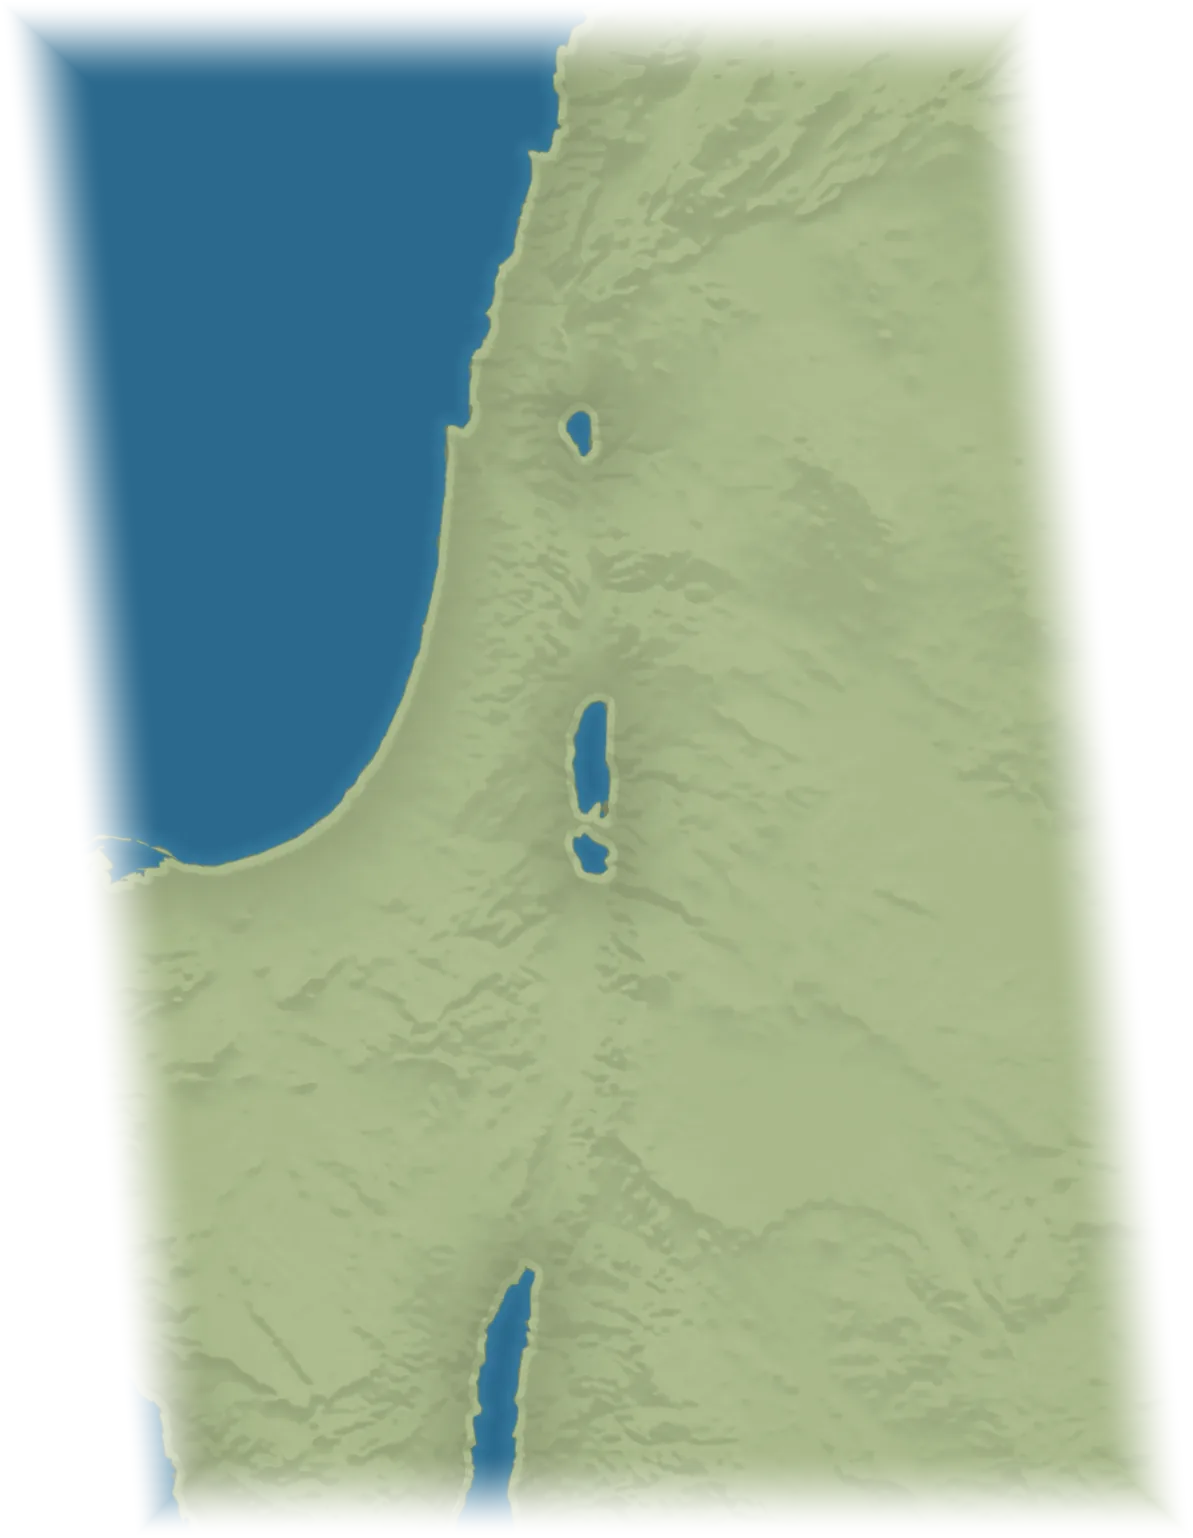
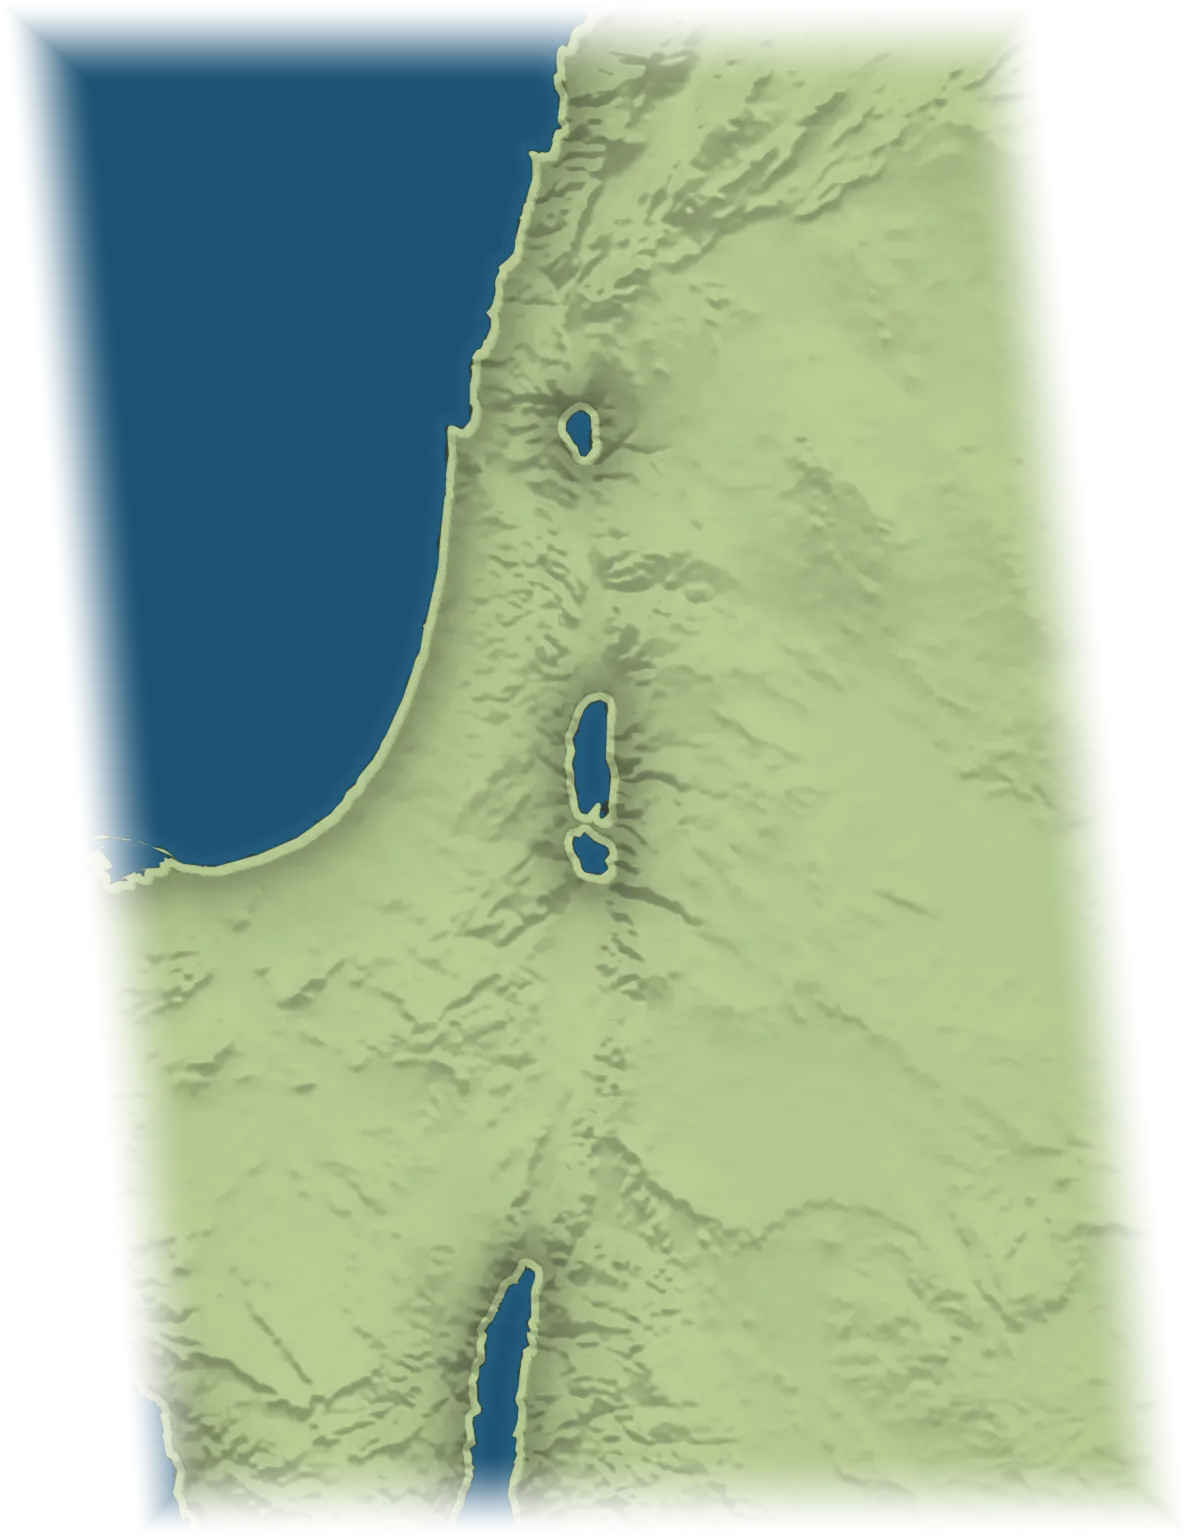
M1 Satellite E: real-mask post-step with dark-value cap, rivers #1E5174; flat remap stopgap updated to E
Claude-Session: https://claude.ai/code/session_01XnSa8CSopsy8GydYXhqea4

Changed region(s): [[0.062, 0.0312, 0.5272, 0.5618], [0.3722, 0.8114, 0.4962, 0.9675], [0.4342, 0.4369, 0.5583, 0.593]]

diff --git a/archaeology.html b/archaeology.html
@@ -68,7 +68,7 @@ a.pill{display:inline-flex;align-items:center;text-decoration:none}
 .routeBody.contested{fill-opacity:1;stroke:#2A2F33;stroke-width:2;stroke-dasharray:6 4}
 .routeTrad{fill:#B9AE9A;stroke:#3F463F;stroke-width:1.8;stroke-dasharray:6 4;stroke-linejoin:round}
 .coast{fill:none;stroke:#3B3326;stroke-opacity:.38;stroke-width:.9;stroke-linejoin:round;pointer-events:none}
-.river{fill:none;stroke:#2B6A8E;stroke-opacity:.85;stroke-width:1.6;stroke-linecap:round;stroke-linejoin:round;pointer-events:none}
+.river{fill:none;stroke:#1E5174;stroke-opacity:.85;stroke-width:1.6;stroke-linecap:round;stroke-linejoin:round;pointer-events:none}
 .regionName{font-family:var(--sans);font-size:11px;font-weight:600;letter-spacing:2.4px;fill:#4E4231;fill-opacity:.85;pointer-events:none}
 .seaName{font-family:Georgia,'Times New Roman',serif;font-style:italic;font-size:15px;letter-spacing:1.2px;fill:#E4EEF0;fill-opacity:.9;pointer-events:none}
 .route.selected .routeBody{stroke:#fff;stroke-width:3}

diff --git a/events.html b/events.html
@@ -63,7 +63,7 @@ a.pill{display:inline-flex;align-items:center;text-decoration:none}
 .routeBody.contested{fill-opacity:1;stroke:#2A2F33;stroke-width:2;stroke-dasharray:6 4}
 .routeTrad{fill:#B9AE9A;stroke:#3F463F;stroke-width:1.8;stroke-dasharray:6 4;stroke-linejoin:round}
 .coast{fill:none;stroke:#3B3326;stroke-opacity:.38;stroke-width:.9;stroke-linejoin:round;pointer-events:none}
-.river{fill:none;stroke:#2B6A8E;stroke-opacity:.85;stroke-width:1.6;stroke-linecap:round;stroke-linejoin:round;pointer-events:none}
+.river{fill:none;stroke:#1E5174;stroke-opacity:.85;stroke-width:1.6;stroke-linecap:round;stroke-linejoin:round;pointer-events:none}
 .regionName{font-family:var(--sans);font-size:11px;font-weight:600;letter-spacing:2.4px;fill:#4E4231;fill-opacity:.85;pointer-events:none}
 .seaName{font-family:Georgia,'Times New Roman',serif;font-style:italic;font-size:15px;letter-spacing:1.2px;fill:#E4EEF0;fill-opacity:.9;pointer-events:none}
 .route.selected .routeBody{stroke:#fff;stroke-width:3}

diff --git a/index.html b/index.html
@@ -63,7 +63,7 @@ a.pill{display:inline-flex;align-items:center;text-decoration:none}
 .routeBody.contested{fill-opacity:1;stroke:#2A2F33;stroke-width:2;stroke-dasharray:6 4}
 .routeTrad{fill:#B9AE9A;stroke:#3F463F;stroke-width:1.8;stroke-dasharray:6 4;stroke-linejoin:round}
 .coast{fill:none;stroke:#3B3326;stroke-opacity:.38;stroke-width:.9;stroke-linejoin:round;pointer-events:none}
-.river{fill:none;stroke:#2B6A8E;stroke-opacity:.85;stroke-width:1.6;stroke-linecap:round;stroke-linejoin:round;pointer-events:none}
+.river{fill:none;stroke:#1E5174;stroke-opacity:.85;stroke-width:1.6;stroke-linecap:round;stroke-linejoin:round;pointer-events:none}
 .regionName{font-family:var(--sans);font-size:11px;font-weight:600;letter-spacing:2.4px;fill:#4E4231;fill-opacity:.85;pointer-events:none}
 .seaName{font-family:Georgia,'Times New Roman',serif;font-style:italic;font-size:15px;letter-spacing:1.2px;fill:#E4EEF0;fill-opacity:.9;pointer-events:none}
 .route.selected .routeBody{stroke:#fff;stroke-width:3}

diff --git a/movements.html b/movements.html
@@ -67,7 +67,7 @@ a.pill{display:inline-flex;align-items:center;text-decoration:none}
 .routeBody.contested{fill-opacity:1;stroke:#2A2F33;stroke-width:2;stroke-dasharray:6 4}
 .routeTrad{fill:#B9AE9A;stroke:#3F463F;stroke-width:1.8;stroke-dasharray:6 4;stroke-linejoin:round}
 .coast{fill:none;stroke:#3B3326;stroke-opacity:.38;stroke-width:.9;stroke-linejoin:round;pointer-events:none}
-.river{fill:none;stroke:#2B6A8E;stroke-opacity:.85;stroke-width:1.6;stroke-linecap:round;stroke-linejoin:round;pointer-events:none}
+.river{fill:none;stroke:#1E5174;stroke-opacity:.85;stroke-width:1.6;stroke-linecap:round;stroke-linejoin:round;pointer-events:none}
 .regionName{font-family:var(--sans);font-size:11px;font-weight:600;letter-spacing:2.4px;fill:#4E4231;fill-opacity:.85;pointer-events:none}
 .seaName{font-family:Georgia,'Times New Roman',serif;font-style:italic;font-size:15px;letter-spacing:1.2px;fill:#E4EEF0;fill-opacity:.9;pointer-events:none}
 .route.selected .routeBody{stroke:#fff;stroke-width:3}

diff --git a/tools/build-map.py b/tools/build-map.py
@@ -248,7 +248,22 @@ def cmd_build(a):
 # Recipe: Creative Design, claude/design-m1-satellite-recipe.py, variant "satm". Output goes to images/m1/ so the aged pictures stay untouched.
 M1_LAND = np.array([0xA8, 0xB8, 0x8A], np.float32); M1_SEA = np.array([0x2B, 0x6A, 0x8E], np.float32)
 M1_WARM = np.array([196, 190, 142], np.float32); M1_SHALLOW = np.array([70, 140, 172], np.float32)
-M1 = dict(strength=1.15, floor=1.0, warm=0.35, shallow=0.45, knee=0.95, slope=0.4)   # relief 115 pct; warm tint up to 35 pct on the brightest relief; shallow band 45 pct; shadows below the knee keep 40 pct of their depth
+M1 = dict(strength=1.15, floor=1.0, warm=0.35, shallow=0.45, knee=0.0, slope=1.0)   # Satellite as first drawn: relief 115 pct; warm tint up to 35 pct on the brightest relief; shallow band 45 pct; FULL shadows (no knee)
+# Satellite E post-step (Jeffrey 3 Nov 21:00, claude/design-m1-satellite-e-recipe.py): sea x0.70/0.78/0.82, land lifted 6 pct and relief widened 45 pct about the median, colour 12 pct stronger.
+E = dict(sea=np.array([0.70, 0.78, 0.82], np.float32), lift=1.06, widen=1.45, chroma=1.12, med=np.array([168, 184, 138], np.float32), floor=46.0)   # floor: darkest land brightness after widening (cap against black specks)
+
+
+def apply_E(img, cov):
+    """img = finished Satellite picture; cov = real Natural Earth land coverage 0..1 (1 land). Returns the E picture."""
+    m = (1 - np.clip(cov, 0, 1))[..., None]
+    land = E['med'] * E['lift'] + (img - E['med']) * E['widen']
+    g = land.mean(axis=-1, keepdims=True)
+    # soft cap on the darkest values: below the floor, brightness is compressed instead of reaching black (no isolated black pixels on Tibet, Arctic islands, Antarctica)
+    f2 = E['floor'] * 2; g2 = np.where(g < f2, f2 - (f2 - g) * 0.5, g)   # below 2 x floor the shadow depth is halved: darkest land ends at the floor, never black
+    land = land + (g2 - g)   # additive, so a pure black pixel is lifted too
+    g = land.mean(axis=-1, keepdims=True); land = np.clip(g + (land - g) * E['chroma'], 0, 255)
+    sea = img * E['sea']
+    return np.clip(sea * m + land * (1 - m), 0, 255)
 
 
 def m1_land_rgb(f):
@@ -273,6 +288,7 @@ def cmd_build_m1(a):
         else: d = cv2.distanceTransform(1 - l8, cv2.DIST_L2, 5)
         w = np.clip(1 - d / 16, 0, 1)[..., None] * M1['shallow'] * (1 - np.clip(cov, 0, 1)[..., None])
         out = np.clip(out * (1 - w) + M1_SHALLOW * w, 0, 255)
+        out = apply_E(out, cov)
         write_jpg(f"{a.out}/images/m1/tex-{tex['name']}.jpg", out, 92)
         print('m1', tex['name'], 'land factor P1, P5, P50 =', [round(float(np.percentile(f[land], q)), 3) for q in (1, 5, 50)])
 

diff --git a/tools/m1-remap-flat.py b/tools/m1-remap-flat.py
@@ -25,7 +25,7 @@ def remap(rgb, alpha=None):
     seac = bm.M1_SEA * (1 - w) + bm.M1_SHALLOW * w
     soft = cv2.GaussianBlur(land.astype(np.float32), (0, 0), 0.8)[..., None]
     res = out * soft + seac * (1 - soft)
-    return np.clip(res, 0, 255).astype(np.uint8)
+    return np.clip(bm.apply_E(np.clip(res, 0, 255), soft[..., 0]), 0, 255).astype(np.uint8)   # Satellite E post-step on the remap
 
 os.makedirs(f'{root}/images/m1/inset', exist_ok=True)
 im = Image.open(f'{root}/images/map-globe.webp').convert('RGB')
